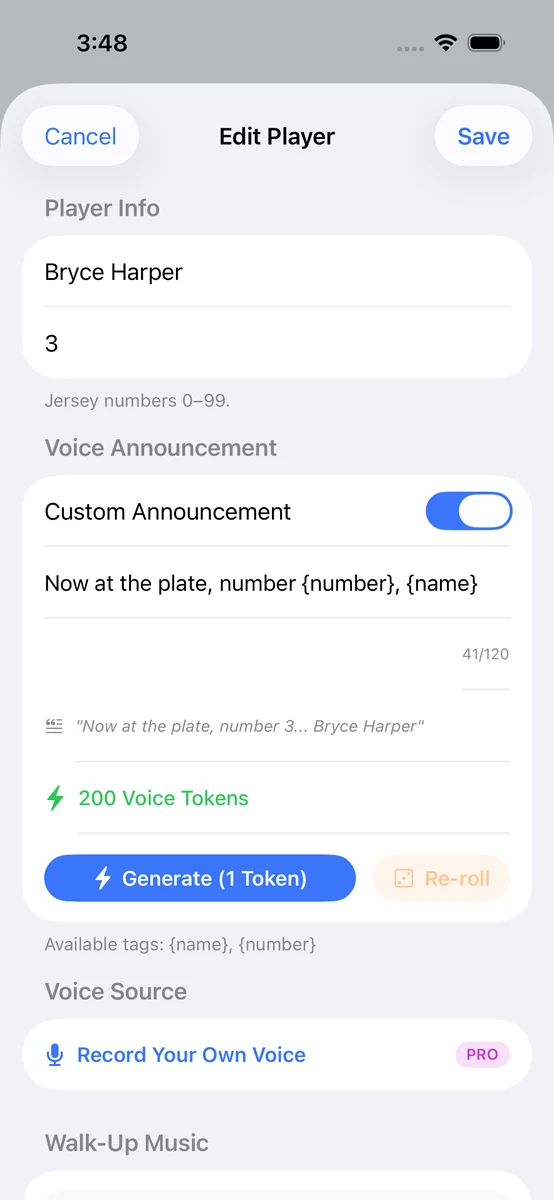
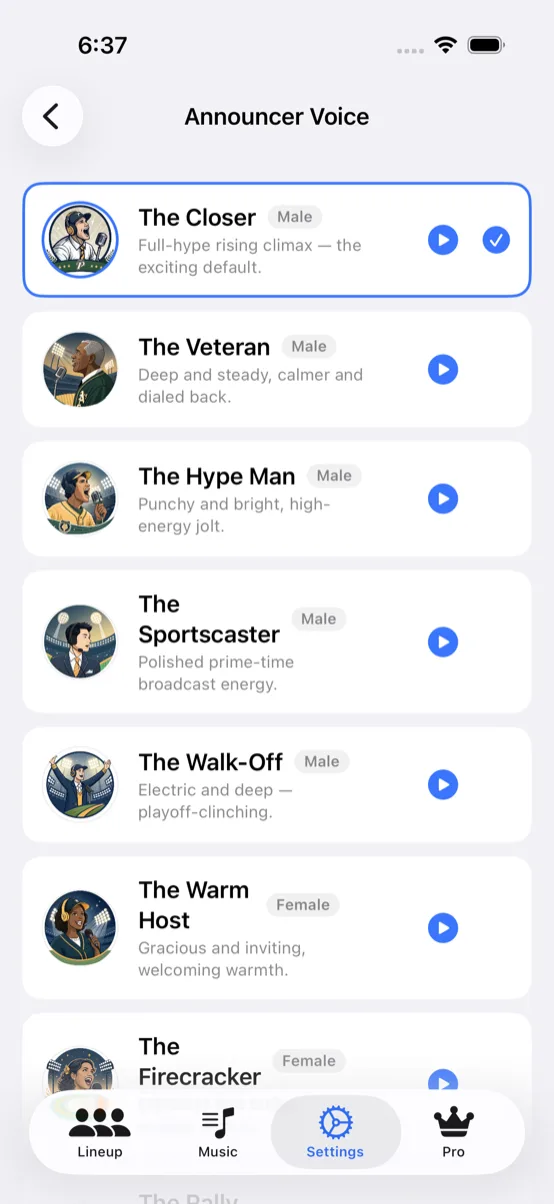
Site: reflect 10-voice roster + refresh Game Mode / voice screenshots
- Bump "9 voices" -> "10 voices" across hero, FAQ bodies, and JSON-LD.
- Replace the retired technical voice names (Ash, Onyx, Alloy, ...) in the
  support FAQ with the 10 announcer characters (The Closer, The Veteran,
  ...), and note the per-player voice option.
- Refresh screenshots/ai-voice.webp (new Announcer Voice card picker, all
  10 characters) and screenshots/game-mode.webp (new decluttered Game Day
  layout: celebrate calls, pinned transport, toolbar volume). Light mode,
  554-wide to match the existing set.

diff --git a/index.html b/index.html
@@ -76,7 +76,7 @@
       "name": "What are AI announcer voices?",
       "acceptedAnswer": {
         "@type": "Answer",
-        "text": "For each player, OnDeckDJ generates a custom stadium-style announcement using one of 9 AI voices — saying the player's name and number. The announcer plays before the song kicks in, just like a real ballpark. You can also record your own voice if you prefer."
+        "text": "For each player, OnDeckDJ generates a custom stadium-style announcement using one of 10 AI voices — saying the player's name and number. The announcer plays before the song kicks in, just like a real ballpark. You can also record your own voice if you prefer."
       }
     },
     {
@@ -108,7 +108,7 @@
       "name": "Is OnDeckDJ a baseball announcer app?",
       "acceptedAnswer": {
         "@type": "Answer",
-        "text": "Yes. OnDeckDJ is a baseball announcer app that generates AI stadium-style announcements for every batter — saying their name and uniform number in one of 9 announcer voices. It's a walk-up song app and an AI announcer voice generator in one. Free to download, no subscription."
+        "text": "Yes. OnDeckDJ is a baseball announcer app that generates AI stadium-style announcements for every batter — saying their name and uniform number in one of 10 announcer voices. It's a walk-up song app and an AI announcer voice generator in one. Free to download, no subscription."
       }
     },
     {
@@ -928,7 +928,7 @@
     <div class="showcase-row reverse">
       <div class="showcase-text">
         <h3>9 AI announcer voices.<br>Or record your own.</h3>
-        <p>From deep stadium baritone to energetic hype man, OnDeckDJ ships with 9 distinctive AI voices. Pick the one that fits your team's vibe — different voice per player if you want — or record your own voice for the most personal touch.</p>
+        <p>From deep stadium baritone to energetic hype man, OnDeckDJ ships with 10 distinctive AI voices. Pick the one that fits your team's vibe — different voice per player if you want — or record your own voice for the most personal touch.</p>
         <ul>
           <li>9 distinct AI voices, generated in seconds</li>
           <li>Custom announcement scripts per player</li>
@@ -1073,7 +1073,7 @@
       </details>
       <details class="faq-item">
         <summary>What are AI announcer voices?</summary>
-        <div class="faq-item-body">For each player, OnDeckDJ generates a custom stadium-style announcement using one of 9 AI voices — saying the player's name and number. The announcer plays before the song kicks in, just like a real ballpark. You can also record your own voice if you prefer.</div>
+        <div class="faq-item-body">For each player, OnDeckDJ generates a custom stadium-style announcement using one of 10 AI voices — saying the player's name and number. The announcer plays before the song kicks in, just like a real ballpark. You can also record your own voice if you prefer.</div>
       </details>
       <details class="faq-item">
         <summary>Is it just for baseball?</summary>
@@ -1089,7 +1089,7 @@
       </details>
       <details class="faq-item">
         <summary>Is OnDeckDJ a baseball announcer app?</summary>
-        <div class="faq-item-body">Yes. OnDeckDJ is a baseball announcer app that generates AI stadium-style announcements for every batter — saying their name and uniform number in one of 9 announcer voices. It's a walk-up song app and an AI announcer voice generator in one. Free to download, no subscription.</div>
+        <div class="faq-item-body">Yes. OnDeckDJ is a baseball announcer app that generates AI stadium-style announcements for every batter — saying their name and uniform number in one of 10 announcer voices. It's a walk-up song app and an AI announcer voice generator in one. Free to download, no subscription.</div>
       </details>
       <details class="faq-item">
         <summary>Is OnDeckDJ a walk-up song maker or generator?</summary>

diff --git a/support.html b/support.html
@@ -124,7 +124,7 @@
 
 <details class="faq-item">
   <summary>How do I change the AI voice?</summary>
-  <div class="faq-item-body">Go to Settings → Voice. Choose from 9 AI voices (Ash, Onyx, Alloy, Ballad, Fable, Sage, Nova, Coral, Shimmer). Tap the play button next to the picker to preview each voice before selecting. The voice applies to all new announcements.</div>
+  <div class="faq-item-body">Go to Settings → Voice. Choose from 10 announcer characters — The Closer, The Veteran, The Hype Man, The Sportscaster, The Walk-Off, The Warm Host, The Firecracker, The Rally Caller, The Showstopper, and The Broadcaster. Tap the play button next to the picker to preview each one before selecting, and you can even set a different voice per player.</div>
 </details>
 
 <details class="faq-item">
